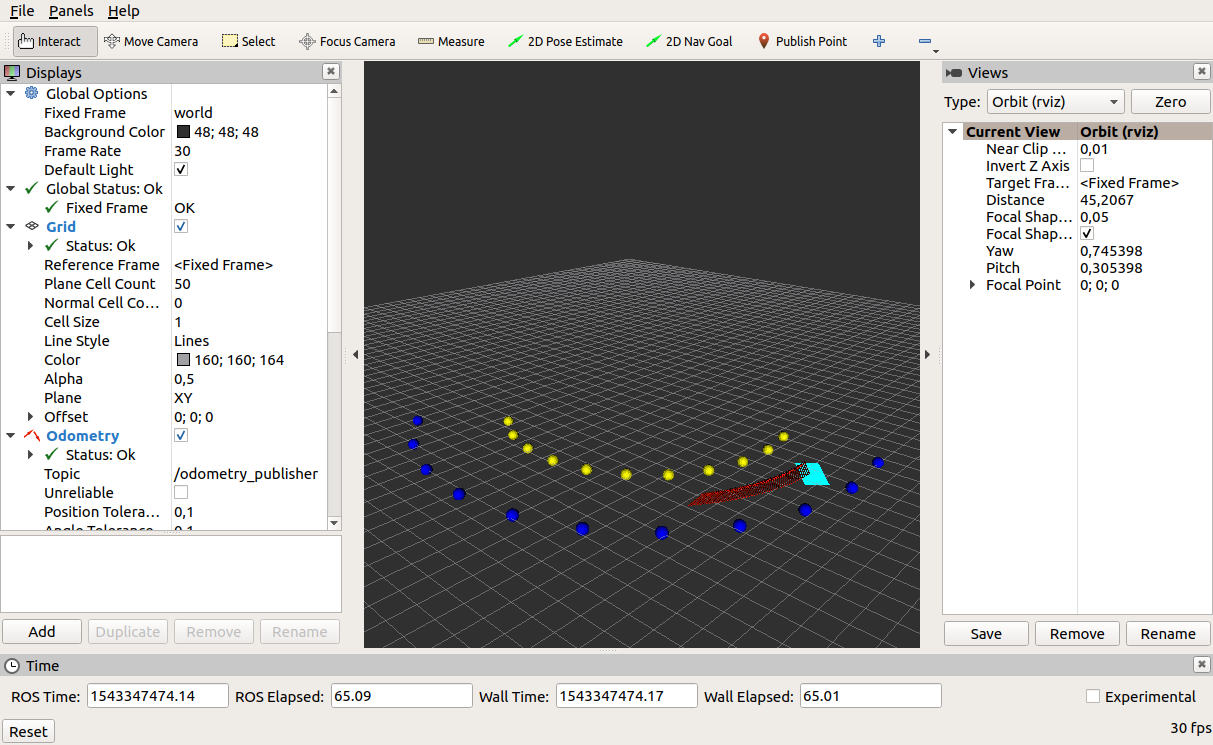
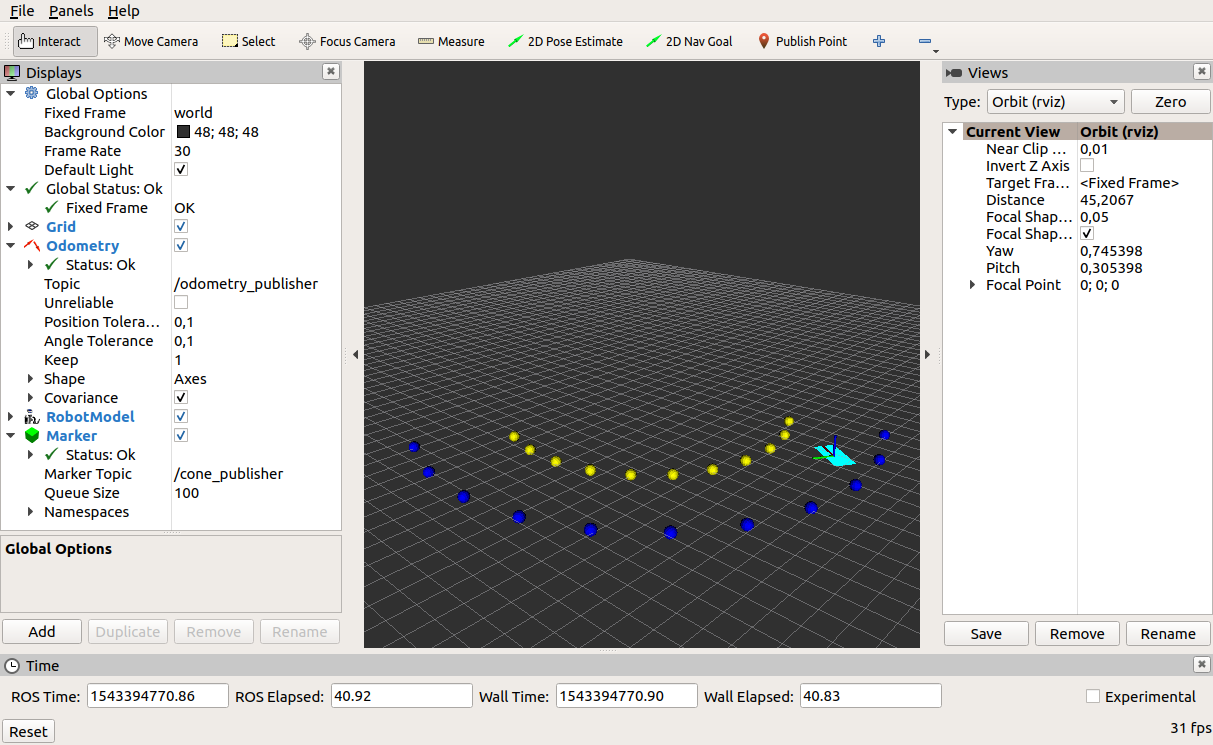
display axes instead of arrows on top of the urdf model

diff --git a/src/cone_publisher.cpp b/src/cone_publisher.cpp
@@ -11,10 +11,10 @@ int main(int argc, char** argv){
 
   //-----------------------------
   // define cone positions
-  double x_left_cone = 3.0;
-  double y_left_cone = -4.0;
-  double x_right_cone = 5.0;
-  double y_right_cone = 0.0;
+  double x_blue_cone = 3.0; // blue on the right side
+  double y_blue_cone = -4.0;
+  double x_yellow_cone = 5.0; // yellow on the left side
+  double y_yellow_cone = 0.0;
 
   ros::Time current_time = ros::Time::now();
 
@@ -34,57 +34,57 @@ int main(int argc, char** argv){
 
 
     //------------------------------------------------------------
-    //publish left cone
+    //publish blue cone
 
-    visualization_msgs::Marker marker_left_cone;
-    marker_left_cone.header.frame_id = "base_link"; //publish to coordinate frame of the urdf-car-model
-    marker_left_cone.header.stamp = current_time;
-    marker_left_cone.id = count;
+    visualization_msgs::Marker marker_blue_cone;
+    marker_blue_cone.header.frame_id = "base_link"; //publish to coordinate frame of the urdf-car-model
+    marker_blue_cone.header.stamp = current_time;
+    marker_blue_cone.id = count;
 
-    marker_left_cone.type = visualization_msgs::Marker::SPHERE;
-    marker_left_cone.action = visualization_msgs::Marker::ADD;
+    marker_blue_cone.type = visualization_msgs::Marker::SPHERE;
+    marker_blue_cone.action = visualization_msgs::Marker::ADD;
 
-    marker_left_cone.pose.position.x = x_left_cone; 
-    marker_left_cone.pose.position.y = y_left_cone;
-    marker_left_cone.pose.position.z = 0.0;
+    marker_blue_cone.pose.position.x = x_blue_cone; 
+    marker_blue_cone.pose.position.y = y_blue_cone;
+    marker_blue_cone.pose.position.z = 0.0;
 
-    marker_left_cone.scale.x = 0.5;
-    marker_left_cone.scale.y = 0.5;
-    marker_left_cone.scale.z = 0.5;
+    marker_blue_cone.scale.x = 0.5;
+    marker_blue_cone.scale.y = 0.5;
+    marker_blue_cone.scale.z = 0.5;
 
-    marker_left_cone.color.r = 0.0;
-    marker_left_cone.color.g = 0.0;
-    marker_left_cone.color.b = 1.0;
-    marker_left_cone.color.a = 1.0;
+    marker_blue_cone.color.r = 0.0;
+    marker_blue_cone.color.g = 0.0;
+    marker_blue_cone.color.b = 1.0;
+    marker_blue_cone.color.a = 1.0;
 
-    cone_pub.publish(marker_left_cone);
+    cone_pub.publish(marker_blue_cone);
 
 
     //------------------------------------------------------------
-    //publish right cone
+    //publish yellow cone
     
-    visualization_msgs::Marker marker_right_cone;
-    marker_right_cone.header.frame_id = "base_link";
-    marker_right_cone.header.stamp = current_time;
-    marker_right_cone.id = ++count;
+    visualization_msgs::Marker marker_yellow_cone;
+    marker_yellow_cone.header.frame_id = "base_link";
+    marker_yellow_cone.header.stamp = current_time;
+    marker_yellow_cone.id = ++count;
 
-    marker_right_cone.type = visualization_msgs::Marker::SPHERE;
-    marker_right_cone.action = visualization_msgs::Marker::ADD;
+    marker_yellow_cone.type = visualization_msgs::Marker::SPHERE;
+    marker_yellow_cone.action = visualization_msgs::Marker::ADD;
 
-    marker_right_cone.pose.position.x = x_right_cone; 
-    marker_right_cone.pose.position.y = y_right_cone;
-    marker_right_cone.pose.position.z = 0.0;
+    marker_yellow_cone.pose.position.x = x_yellow_cone; 
+    marker_yellow_cone.pose.position.y = y_yellow_cone;
+    marker_yellow_cone.pose.position.z = 0.0;
 
-    marker_right_cone.scale.x = 0.5;
-    marker_right_cone.scale.y = 0.5;
-    marker_right_cone.scale.z = 0.5;
+    marker_yellow_cone.scale.x = 0.5;
+    marker_yellow_cone.scale.y = 0.5;
+    marker_yellow_cone.scale.z = 0.5;
 
-    marker_right_cone.color.r = 1.0;
-    marker_right_cone.color.g = 1.0;
-    marker_right_cone.color.b = 0.0;
-    marker_right_cone.color.a = 1.0;
+    marker_yellow_cone.color.r = 1.0;
+    marker_yellow_cone.color.g = 1.0;
+    marker_yellow_cone.color.b = 0.0;
+    marker_yellow_cone.color.a = 1.0;
     
-    cone_pub.publish(marker_right_cone);
+    cone_pub.publish(marker_yellow_cone);
 
 
 

diff --git a/README.md b/README.md
@@ -27,4 +27,7 @@ The "circle_track_with_cones.launch"-file does:
 * start odometry_publisher (drive a circle with the car)
 * start cone_publisher (publish blue and yellow cones)
 
+On top of the urdf-model are axes displayed in the colors rgb.
+(R=X, G=Y, B=Z)
+
 ![rviz with circle_track and cones](images/rviz_circle_track_with_cones.png)
